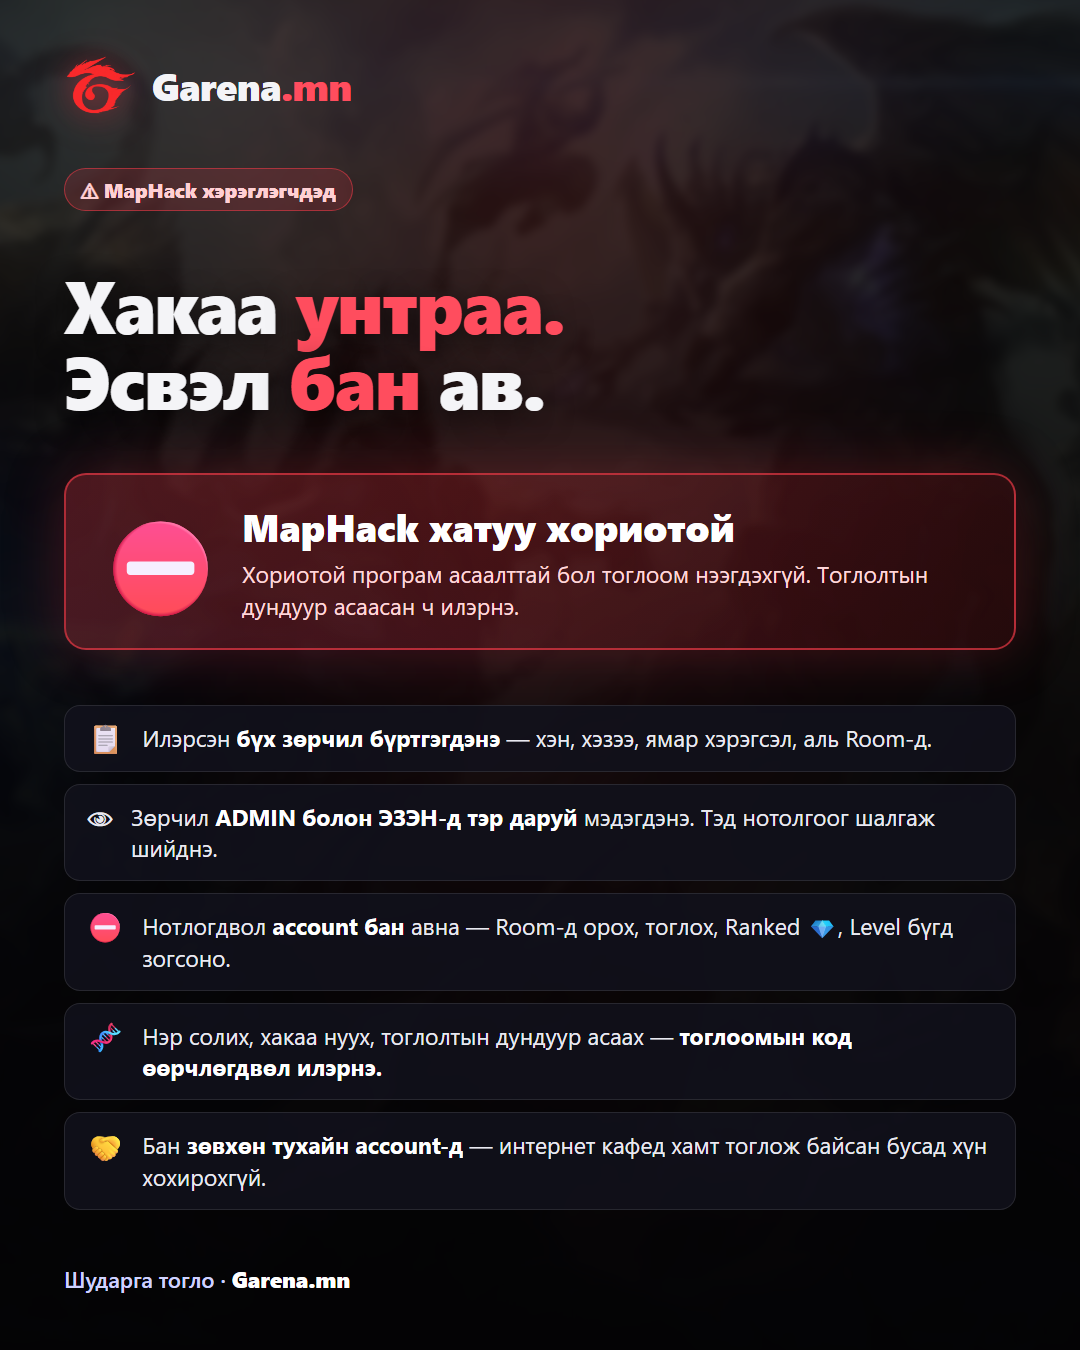
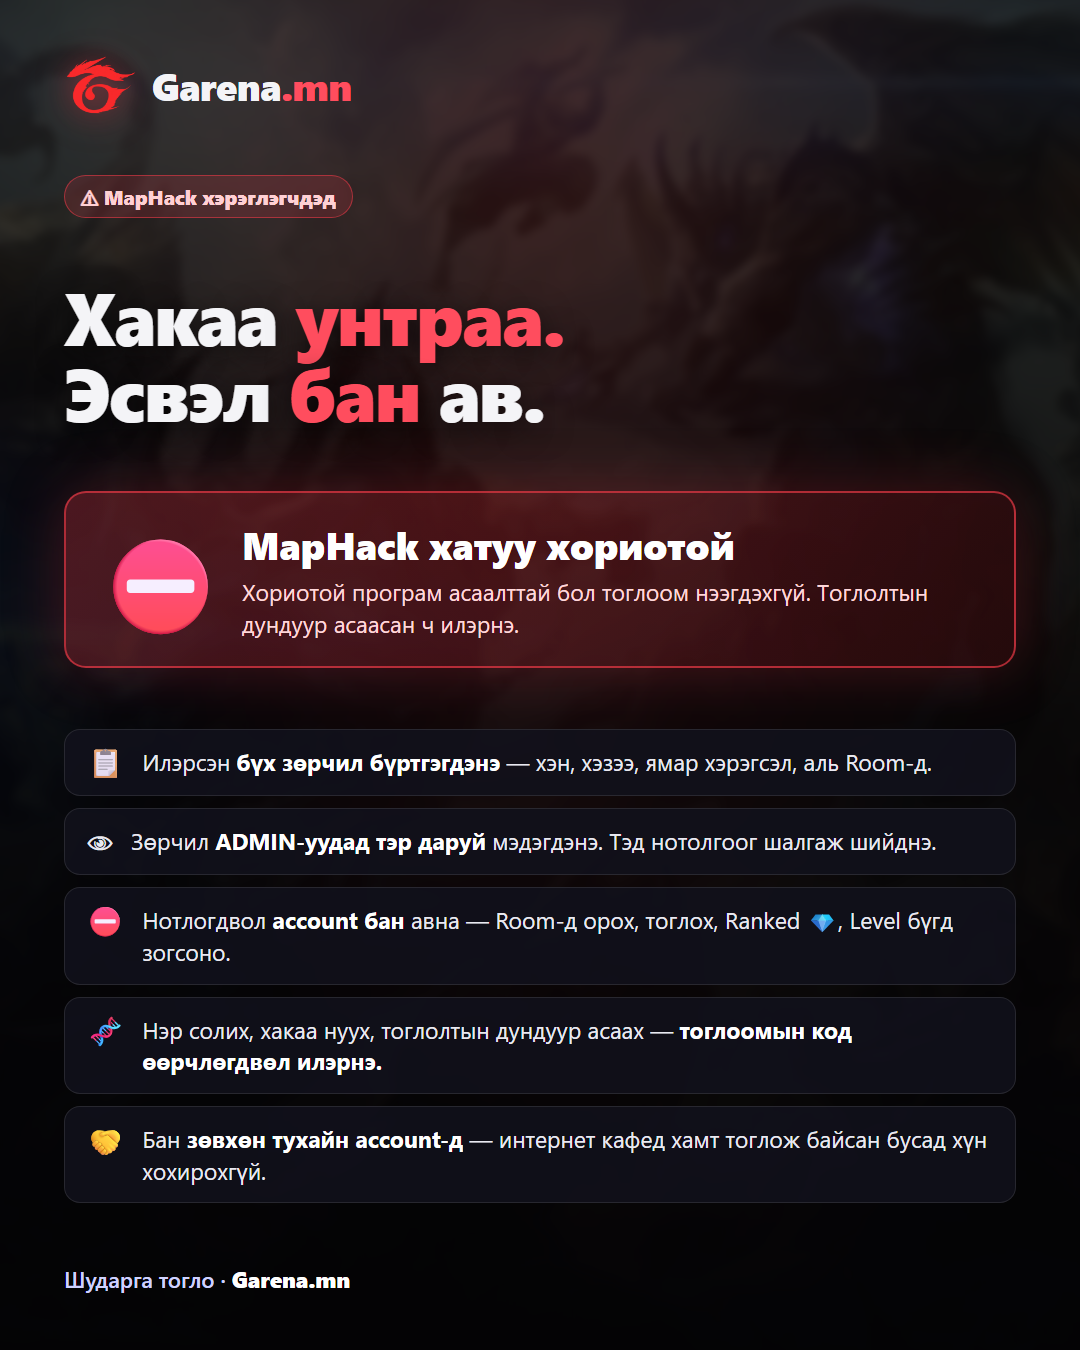
marketing: «Хакаа унтраа» постер ба MapHack пост — «ЭЗЭН» гэдгийг хасав (ADMIN-ууд л)

diff --git a/marketing/facebook-2026-10/src/anticheat.html b/marketing/facebook-2026-10/src/anticheat.html
@@ -83,7 +83,7 @@
   </div>
   <div class="z rules">
     <div class="rule"><i>📋</i><div>Илэрсэн <strong>бүх зөрчил бүртгэгдэнэ</strong> — хэн, хэзээ, ямар хэрэгсэл, аль Room-д.</div></div>
-    <div class="rule"><i>👁</i><div>Зөрчил <strong>ADMIN болон ЭЗЭН-д тэр даруй</strong> мэдэгдэнэ. Тэд нотолгоог шалгаж шийднэ.</div></div>
+    <div class="rule"><i>👁</i><div>Зөрчил <strong>ADMIN-уудад тэр даруй</strong> мэдэгдэнэ. Тэд нотолгоог шалгаж шийднэ.</div></div>
     <div class="rule"><i>⛔</i><div>Нотлогдвол <strong>account бан</strong> авна — Room-д орох, тоглох, Ranked 💎, Level бүгд зогсоно.</div></div>
     <div class="rule"><i>🧬</i><div>Нэр солих, хакаа нуух, тоглолтын дундуур асаах — <strong>тоглоомын код өөрчлөгдвөл илэрнэ.</strong></div></div>
     <div class="rule"><i>🤝</i><div>Бан <strong>зөвхөн тухайн account-д</strong> — интернет кафед хамт тоглож байсан бусад хүн хохирохгүй.</div></div>
